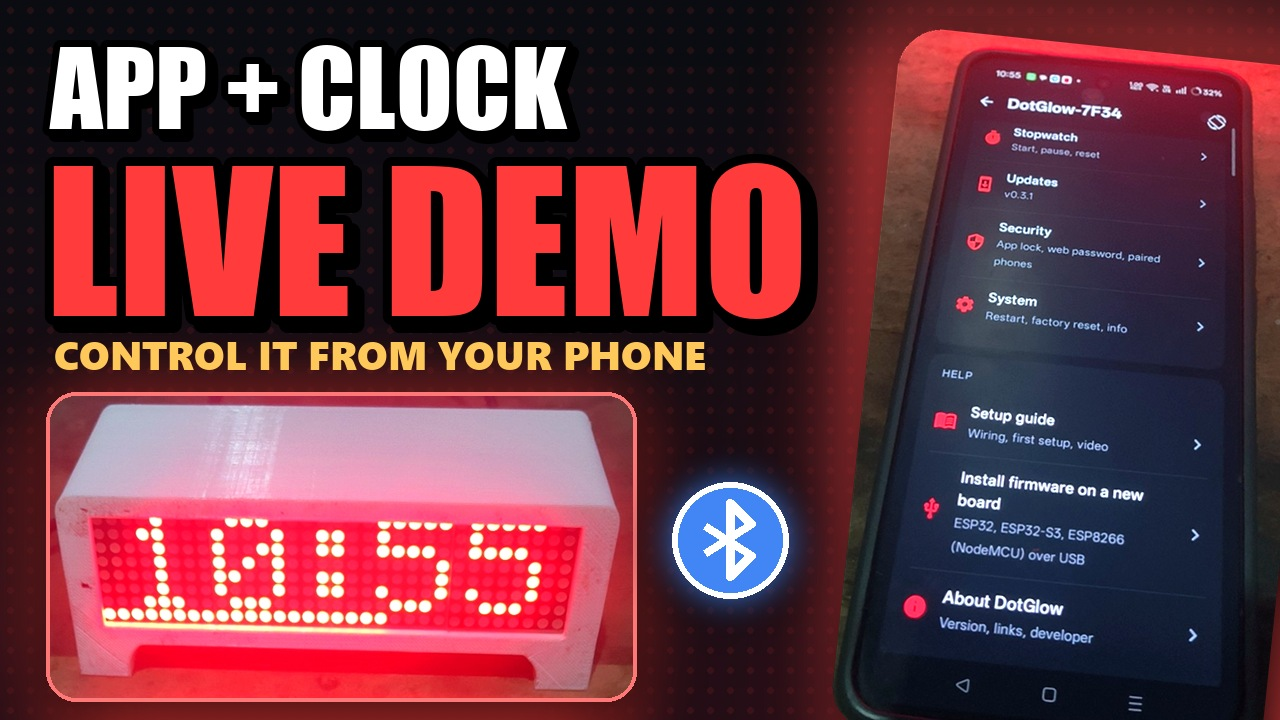
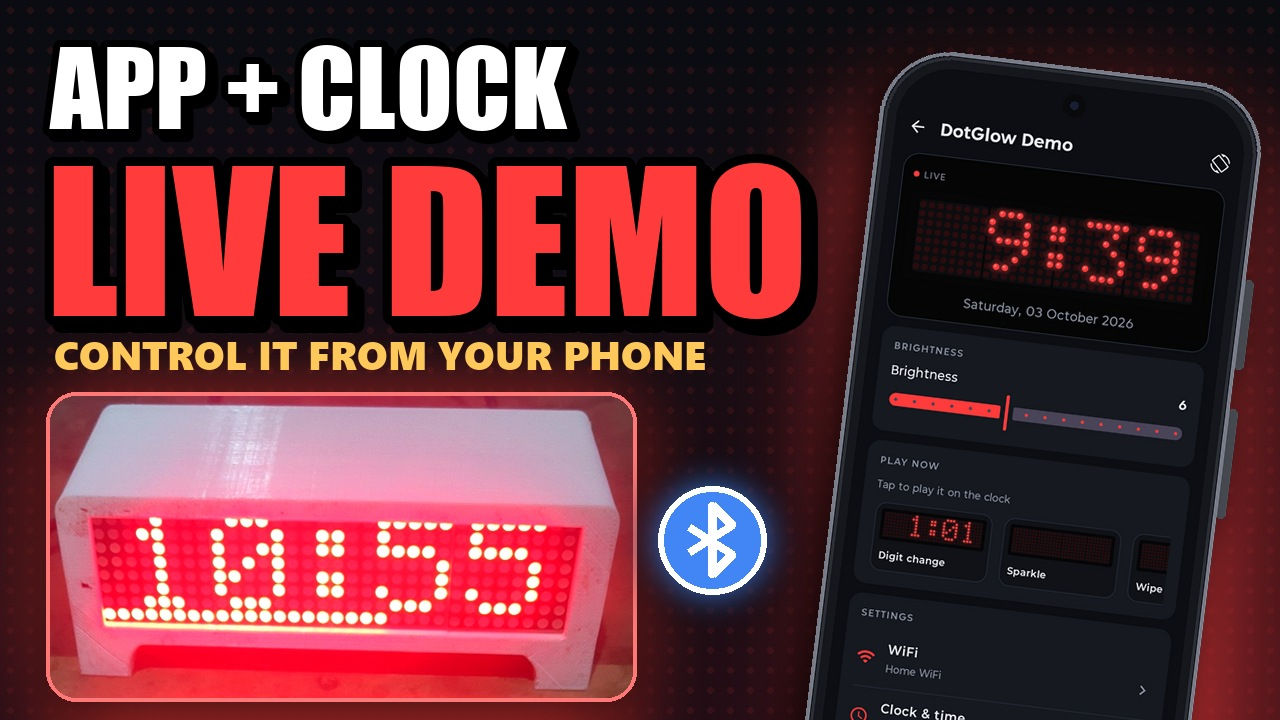
Demo thumbnail: app screenshot in a drawn phone frame

diff --git a/tools/make_thumbnails.py b/tools/make_thumbnails.py
@@ -1,9 +1,9 @@
 """YouTube thumbnails (1280x720 JPG) for the DotGlow videos, built from real photos.
 
-    python tools/make_thumbnails.py <clock-photo.jpg> <phone-photo.jpg> [out-dir]
+    python tools/make_thumbnails.py <clock-photo.jpg> <app-screenshot.png> [out-dir]
 
-clock-photo: the lit clock (colon visible); phone-photo: the phone showing the connected app.
-Crop boxes below are for the 1125x2000 photos in docs/youtube/photos/.
+clock-photo: the lit clock (colon visible), crop box below is for the 1125x2000 photo in docs/youtube/photos/.
+app-screenshot: a plain 1080x2400 app screenshot (docs/play-store/raw/); it is put into a drawn phone frame.
 """
 import math
 import os
@@ -175,22 +175,43 @@ def build_thumb(clock, out):
     c.convert("RGB").save(out, quality=93, optimize=True)
 
 
-def demo_thumb(clock, phone, out):
+def phone_mockup(shot, screen_w=400):
+    """Phone frame (bezel, punch-hole camera, side buttons) around an app screenshot. Returns an RGBA image."""
+    sh = screen_w * shot.height // shot.width
+    bez = 17
+    pw, ph = screen_w + 2 * bez, sh + 2 * bez
+    out = Image.new("RGBA", (pw + 10, ph), (0, 0, 0, 0))
+    d = ImageDraw.Draw(out)
+    d.rounded_rectangle([pw - 2, 190, pw + 8, 280], 5, fill=(70, 72, 80))        # power button
+    d.rounded_rectangle([pw - 2, 320, pw + 8, 430], 5, fill=(70, 72, 80))        # volume
+    d.rounded_rectangle([0, 0, pw - 1, ph - 1], 70, fill=(22, 23, 28), outline=(120, 124, 136), width=4)
+    d.rounded_rectangle([5, 5, pw - 6, ph - 6], 66, outline=(44, 46, 54), width=3)
+    screen = rounded(shot.convert("RGB").resize((screen_w, sh), Image.LANCZOS), 54)
+    out.alpha_composite(screen, (bez, bez))
+    d = ImageDraw.Draw(out)
+    d.ellipse([pw // 2 - 11, bez + 10, pw // 2 + 11, bez + 32], fill=(10, 10, 12))   # camera hole
+    d.ellipse([pw // 2 - 4, bez + 17, pw // 2 + 4, bez + 25], fill=(24, 30, 52))
+    return out
+
+
+def demo_thumb(clock, shot, out):
     c = background()
-    # phone, right, slightly tilted
-    ph = punch(crop_fit(phone, (270, 845, 935, 1935), (432, 705)), contrast=1.1, color=1.1, bright=1.12)
-    ph = rounded(ph, 44)
-    pbox = (835, 22, 835 + 432, 22 + 705)
-    glow_behind(c, pbox, (255, 70, 70), blur=48, grow=18, alpha=190)
-    tilt = Image.new("RGBA", (ph.width + 60, ph.height + 60), (0, 0, 0, 0))
-    tilt.alpha_composite(ph, (30, 30))
-    tilt = tilt.rotate(-6, expand=True, resample=Image.BICUBIC)
-    sh = Image.new("RGBA", c.size, (0, 0, 0, 0))
-    sh.alpha_composite(tilt, (pbox[0] - 40, pbox[1] - 30))
+    shot = shot.convert("RGB").crop((0, 96, shot.width, shot.height))   # drop the real status bar (carrier, notifications)
+    padded = Image.new("RGB", (shot.width, shot.height + 100), shot.getpixel((4, 4)))   # clear band for the camera hole
+    padded.paste(shot, (0, 100))
+    shot = padded
+    phone = phone_mockup(shot, 350)
+    tilt = phone.rotate(-7, expand=True, resample=Image.BICUBIC)
+    pos = (788, 44)
+    gl = Image.new("RGBA", c.size, (0, 0, 0, 0))
+    ImageDraw.Draw(gl).rounded_rectangle([pos[0] + 20, pos[1] + 30, pos[0] + tilt.width - 20, H + 200], 80, fill=(255, 60, 60, 190))
+    c.alpha_composite(gl.filter(ImageFilter.GaussianBlur(60)))
     shadow_layer = Image.new("RGBA", c.size, (0, 0, 0, 0))
-    shadow_layer.paste((0, 0, 0, 200), (0, 0), sh.getchannel("A"))
-    c.alpha_composite(shadow_layer.filter(ImageFilter.GaussianBlur(20)), (12, 16))
-    c.alpha_composite(sh)
+    shadow_layer.paste((0, 0, 0, 210), (pos[0] - 14, pos[1] + 12), tilt.getchannel("A"))
+    c.alpha_composite(shadow_layer.filter(ImageFilter.GaussianBlur(18)))
+    layer = Image.new("RGBA", c.size, (0, 0, 0, 0))
+    layer.paste(tilt, pos, tilt)
+    c.alpha_composite(layer)
     # clock photo, bottom left
     photo = punch(crop_fit(clock, (205, 300, 1055, 745), (590, 309)))
     box = (46, 392, 636, 701)
@@ -202,7 +223,7 @@ def demo_thumb(clock, phone, out):
     text(c, (50, 24), "APP + CLOCK", font(IMPACT, 104), WHITE, stroke=7, shadow_px=6)
     text(c, (46, 124), "LIVE DEMO", font(IMPACT, 190), RED, stroke=9, shadow_px=8)
     text(c, (54, 326), "CONTROL IT FROM YOUR PHONE", font(BLACK, 40), (255, 200, 90))
-    bluetooth(c, 730, 540, r=58)
+    bluetooth(c, 712, 540, r=54)
     c.convert("RGB").save(out, quality=93, optimize=True)
 
 
